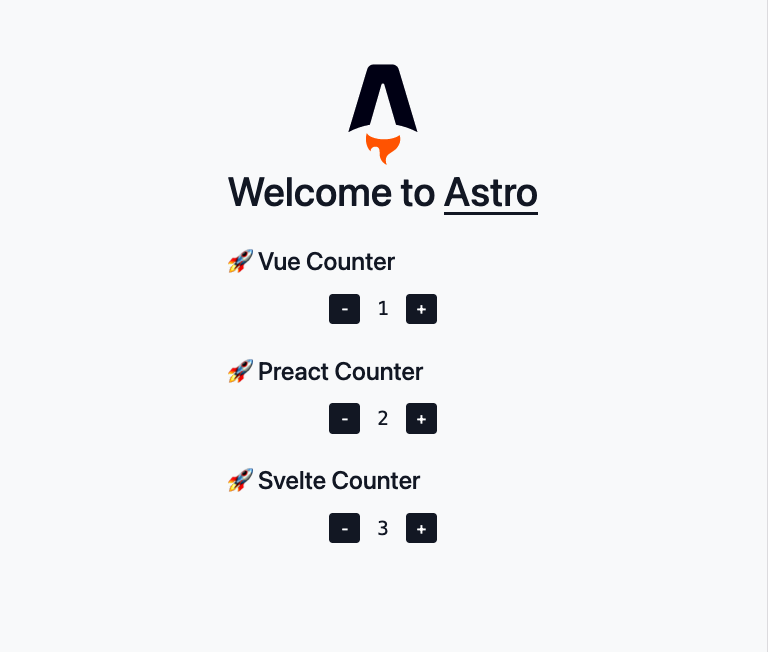
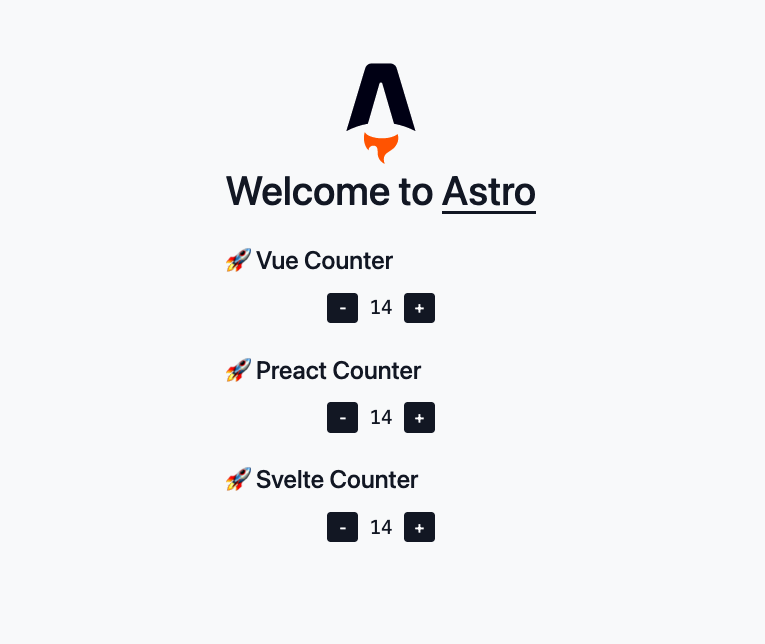
Add nanostores

diff --git a/src/components/PreactCounter.jsx b/src/components/PreactCounter.jsx
@@ -1,20 +1,19 @@
 /** @jsx h */
 import { h, Fragment } from 'preact'
-import { useState } from 'preact/hooks'
+import { useStore } from 'nanostores/preact'
+import { counter, increaseCounter, decreaseCounter } from '../store/counter'
 
 export function PreactCounter() {
-  const [count, setCount] = useState(0)
-  const add = () => setCount((i) => i + 1)
-  const subtract = () => setCount((i) => i - 1)
+  const count = useStore(counter)
 
   return (
     <Fragment>
       <div class="counter">
-      <h2>🚀  Preact Counter</h2>
+        <h2>🚀 Preact Counter</h2>
         <div>
-        <button onClick={subtract}>-</button>
-        <pre>{count}</pre>
-        <button onClick={add}>+</button>
+          <button onClick={decreaseCounter}>-</button>
+          <pre>{count}</pre>
+          <button onClick={increaseCounter}>+</button>
         </div>
       </div>
     </Fragment>

diff --git a/src/components/VueCounter.vue b/src/components/VueCounter.vue
@@ -2,25 +2,24 @@
   <div class="counter">
     <h2>🚀 Vue Counter</h2>
     <div>
-      <button @click="subtract">-</button>
+      <button @click="decreaseCounter">-</button>
       <pre>{{ count }}</pre>
-      <button @click="add">+</button>
+      <button @click="increaseCounter">+</button>
     </div>
   </div>
 </template>
 
 <script>
-import { ref } from 'vue'
+import { useStore } from 'nanostores/vue'
+import { counter, increaseCounter, decreaseCounter } from '../store/counter'
 
 export default {
   setup() {
-    const count = ref(0)
-    const add = () => (count.value += 1)
-    const subtract = () => (count.value -= 1)
+    const count = useStore(counter)
     return {
       count,
-      add,
-      subtract,
+      increaseCounter,
+      decreaseCounter,
     }
   },
 }

diff --git a/src/components/SvelteCounter.svelte b/src/components/SvelteCounter.svelte
@@ -1,20 +1,12 @@
 <script>
-  let count = 0
-
-  function add() {
-    count += 1
-  }
-
-  function subtract() {
-    count -=1 
-  }
+  import { counter, increaseCounter, decreaseCounter } from '../store/counter'
 </script>
 
 <div class="counter">
   <h2>🚀 Svelte Counter</h2>
   <div>
-    <button on:click={subtract}>-</button>
-    <pre>{count}</pre>
-    <button on:click={add}>+</button>
+    <button on:click={decreaseCounter}>-</button>
+    <pre>{$counter}</pre>
+    <button on:click={increaseCounter}>+</button>
   </div>
 </div>

diff --git a/src/store/counter.ts b/src/store/counter.ts
@@ -1,0 +1,15 @@
+import { createStore, getValue } from 'nanostores'
+
+const counter = createStore<number>(() => {
+  counter.set(0)
+})
+
+function increaseCounter() {
+  counter.set(getValue(counter) + 1)
+}
+
+function decreaseCounter() {
+  counter.set(getValue(counter) - 1)
+}
+
+export { counter, increaseCounter, decreaseCounter }
